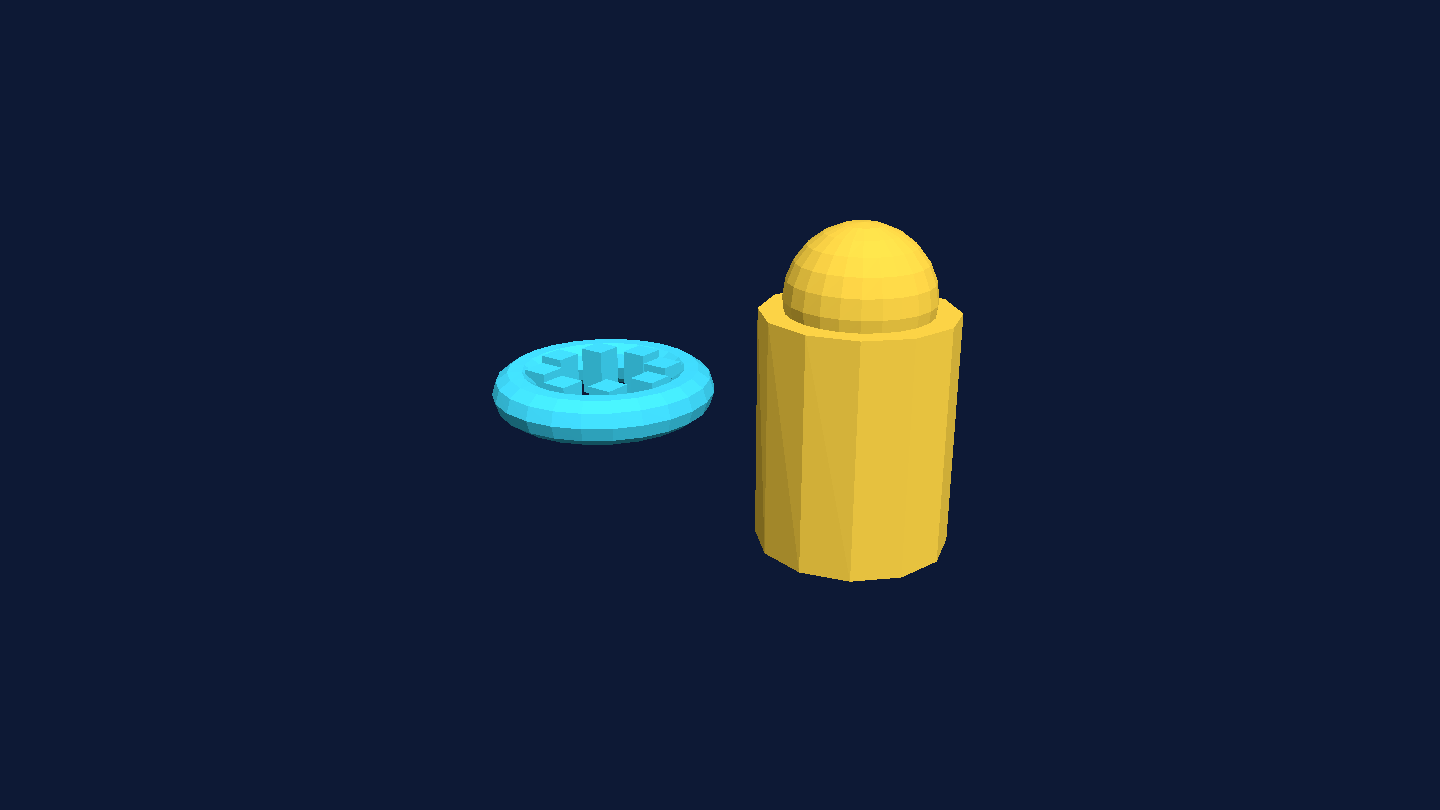
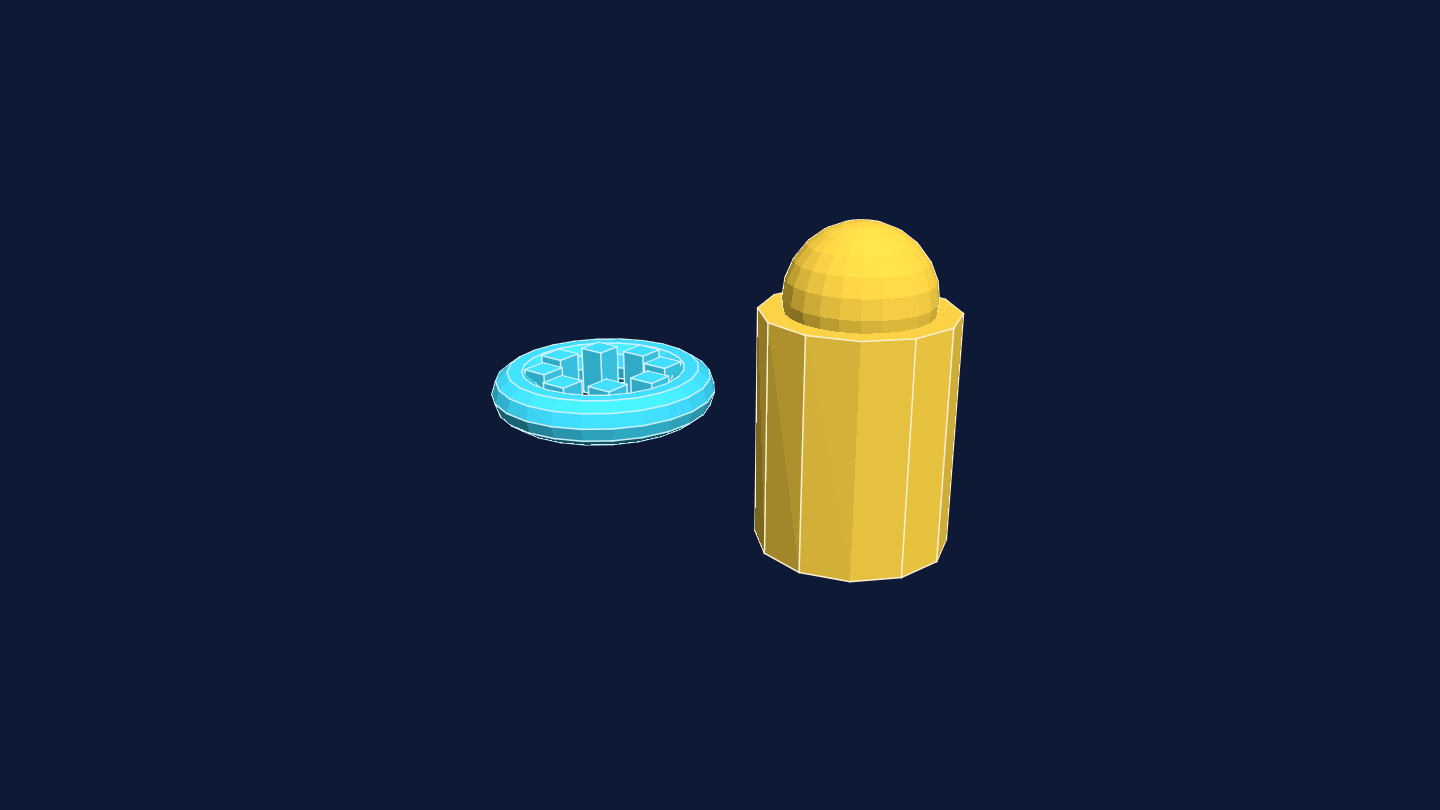
draw gallery bodies with edge lines

diff --git a/internal/cmd/genimages/main.go b/internal/cmd/genimages/main.go
@@ -81,9 +81,9 @@ func heroScene() (solidlens.Scene, error) {
 	}
 	scene := studioScene(
 		solidlens.Model{Mesh: text, Material: solidlens.Matte(solidlens.RGB(0.78, 0.9, 1))},
-		solidlens.Model{Mesh: ball, Material: solidlens.Matte(solidlens.RGB(0.04, 0.78, 0.88))},
-		solidlens.Model{Mesh: pyramid, Material: solidlens.Matte(solidlens.RGB(0.47, 0.21, 0.93))},
-		solidlens.Model{Mesh: cube, Material: solidlens.Matte(solidlens.RGB(1, 0.31, 0.22))},
+		outlined(solidlens.Model{Mesh: ball, Material: solidlens.Matte(solidlens.RGB(0.04, 0.78, 0.88))}),
+		outlined(solidlens.Model{Mesh: pyramid, Material: solidlens.Matte(solidlens.RGB(0.47, 0.21, 0.93))}),
+		outlined(solidlens.Model{Mesh: cube, Material: solidlens.Matte(solidlens.RGB(1, 0.31, 0.22))}),
 	)
 	scene.Camera.Position = solidlens.Vec{X: -0.24, Y: -5.5, Z: 2.5}
 	scene.Camera.Target = solidlens.Vec{Z: 2.25}
@@ -101,8 +101,8 @@ func mechanicalScene() (solidlens.Scene, error) {
 		return solidlens.Scene{}, err
 	}
 	return studioScene(
-		solidlens.Model{Mesh: blue, Material: solidlens.Matte(solidlens.RGB(0.05, 0.68, 0.94))},
-		solidlens.Model{Mesh: gold, Material: solidlens.Matte(solidlens.RGB(0.95, 0.64, 0.06))},
+		outlined(solidlens.Model{Mesh: blue, Material: solidlens.Matte(solidlens.RGB(0.05, 0.68, 0.94))}),
+		outlined(solidlens.Model{Mesh: gold, Material: solidlens.Matte(solidlens.RGB(0.95, 0.64, 0.06))}),
 	), nil
 }
 
@@ -120,10 +120,31 @@ func formsScene() (solidlens.Scene, error) {
 		return solidlens.Scene{}, err
 	}
 	return studioScene(
-		solidlens.Model{Mesh: pink, Material: solidlens.Matte(solidlens.RGB(0.96, 0.23, 0.54))},
-		solidlens.Model{Mesh: green, Material: solidlens.Matte(solidlens.RGB(0.17, 0.76, 0.54))},
-		solidlens.Model{Mesh: blue, Material: solidlens.Matte(solidlens.RGB(0.33, 0.44, 0.98))},
+		outlined(solidlens.Model{Mesh: pink, Material: solidlens.Matte(solidlens.RGB(0.96, 0.23, 0.54))}),
+		outlined(solidlens.Model{Mesh: green, Material: solidlens.Matte(solidlens.RGB(0.17, 0.76, 0.54))}),
+		outlined(solidlens.Model{Mesh: blue, Material: solidlens.Matte(solidlens.RGB(0.33, 0.44, 0.98))}),
 	), nil
+}
+
+// outlined enables edge lines on a model. The line color is a lightened form
+// of the material so that it reads against both the lit surface and the dark
+// background.
+func outlined(model solidlens.Model) solidlens.Model {
+	model.Edges = solidlens.Edges{
+		Enabled: true,
+		Color:   lighten(model.Material.Color, 0.6),
+		Width:   1.5,
+	}
+	return model
+}
+
+func lighten(c solidlens.Color, amount float64) solidlens.Color {
+	return solidlens.Color{
+		R: c.R + (1-c.R)*amount,
+		G: c.G + (1-c.G)*amount,
+		B: c.B + (1-c.B)*amount,
+		A: 1,
+	}
 }
 
 func studioScene(models ...solidlens.Model) solidlens.Scene {

diff --git a/README.md b/README.md
@@ -48,8 +48,10 @@ The [examples](examples) package contains a tested end-to-end render.
 ## Gallery
 
 The gallery uses triangle meshes built in Go and rendered with `RenderPNG`.
-It shows directional and point lighting, per-model materials, perspective
-camera placement, and a configured background.
+It shows directional and point lighting, per-model materials, edge lines,
+perspective camera placement, and a configured background. The faceted bodies
+show their facet edges, while the sphere keeps only its silhouette, because
+its neighbouring faces stay under the default crease angle.
 
 | Mechanical forms | Primitive forms |
 |---|---|
